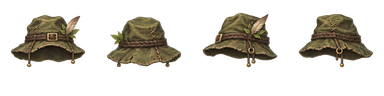
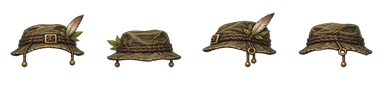
art(e08): integrate Codex redraws of the Elementalist wreath and Hunter hat
New revisions of class_set_elementalist_head and class_set_hunter_head
(same ids) packaged from the Codex sources (S/N/E/W, shared scale,
alpha bleed); head fit table regenerated with tuned per-piece params;
provenance recorded with the prompt unrecorded per P5 policy.

diff --git a/tools/prepare_e08_equipment_redesign.py b/tools/prepare_e08_equipment_redesign.py
@@ -1,6 +1,6 @@
 from PIL import Image, ImageDraw
 from pathlib import Path
-import json, hashlib
+import json, hashlib, sys
 P=Path('assets/art/e08_equipment_redesign')
 rows={
 'heads_basic_source_v1.png':[None,'class_set_archer_head',None,'class_set_defender_head'],
@@ -26,6 +26,51 @@ def fit(im, size):
     l,t,r,b=box; box=(max(0,l-3),max(0,t-3),min(im.width,r+3),min(im.height,b+3))
     im=im.crop(box); im.thumbnail(size,Image.Resampling.LANCZOS)
     return im
+# --- P7-C8: Codex redraws of two head pieces (post-closure revision, same ids/paths) -------------------
+# python tools/prepare_e08_equipment_redesign.py p7_head_art
+# Sources: 2172x724 transparent RGBA, four views side by side in the same order as the 384x96 sheets
+# (S,N,E,W; the E/W mapping was checked against the previous sheets' gem/buckle side). Each view is cropped by its
+# alpha bbox (alpha>=32 +3 px margin), ALL views of one piece share one scale (so the 4 views keep their relative
+# size; the widest view fills 76 px = 19 logical px), the result is placed like the old pipeline (x centred,
+# bottom at y=68 of the 96x96 cell), and RGB under alpha 0 is alpha-bleeded (nearest opaque colour, 4 px).
+P7_STAGING = P/'p7_head_fit_staging'
+P7_PIECES = {'class_set_elementalist_head': 'class_set_elementalist_head_source_v1.png',
+             'class_set_hunter_head': 'class_set_hunter_head_source_v1.png'}
+P7_OUT = Path('assets/art/equipment/headgear')
+P7_MAX_W = 76
+def alpha_bleed(im, radius=4):
+    import numpy as np
+    a = np.array(im); rgb = a[:, :, :3].copy(); alpha = a[:, :, 3]
+    known = alpha > 0
+    for _ in range(radius):
+        newrgb = rgb.copy(); newknown = known.copy()
+        for dy, dx in ((-1,0),(1,0),(0,-1),(0,1),(-1,-1),(-1,1),(1,-1),(1,1)):
+            sh_known = np.roll(known, (dy, dx), (0, 1)); sh_rgb = np.roll(rgb, (dy, dx), (0, 1))
+            take = ~newknown & sh_known
+            newrgb[take] = sh_rgb[take]; newknown |= take
+        rgb, known = newrgb, newknown
+    out = np.zeros_like(a); out[:, :, :3] = np.where(known[:, :, None], rgb, 0); out[:, :, 3] = alpha
+    return Image.fromarray(out, 'RGBA')
+def p7_pack(piece):
+    src = Image.open(P7_STAGING/P7_PIECES[piece]).convert('RGBA')
+    vw = src.width // 4
+    crops = []
+    for v in range(4):
+        view = alpha_bleed(src.crop((v*vw, 0, (v+1)*vw, src.height)))
+        box = visible_bbox(view)
+        l, t, r, b = box; box = (max(0, l-3), max(0, t-3), min(view.width, r+3), min(view.height, b+3))
+        crops.append(view.crop(box))
+    scale = P7_MAX_W / max(c.width for c in crops)
+    atlas = Image.new('RGBA', (384, 96)); boxes = []
+    for v, c in enumerate(crops):
+        o = c.resize((max(1, round(c.width*scale)), max(1, round(c.height*scale))), Image.Resampling.LANCZOS)
+        x = v*96 + (96-o.width)//2; y = 68 - o.height
+        atlas.alpha_composite(o, (x, y)); boxes.append([x-v*96, y, x-v*96+o.width, y+o.height])
+    atlas = alpha_bleed(atlas); atlas.save(P7_OUT/(piece+'.png'))
+    print(piece, 'scale %.4f' % scale, boxes)
+if len(sys.argv) > 1 and sys.argv[1] == 'p7_head_art':
+    for piece in P7_PIECES: p7_pack(piece)
+    sys.exit(0)
 ranges={
 'heads_basic_source_v1.png':([0,254,500,765,1024],[0,400,760,1110,1536]),
 'heads_sets_a_source_v1.png':([0,244,449,709,1024],[0,390,770,1150,1536]),

diff --git a/tools/prepare_e08_head_fit.py b/tools/prepare_e08_head_fit.py
@@ -27,8 +27,8 @@ PIECES = {
     'class_set_archer_head': {'mode': 'cover', 'width_k': 1.14, 'drop': -0.06, 'vk': 0.9},
     'class_set_berserker_head': {'mode': 'cover', 'width_k': 1.14, 'drop': -0.2, 'vk': 1.25},
     'class_set_defender_head': {'mode': 'cover', 'width_k': 1.1, 'drop': -0.1, 'vk': 0.72},
-    'class_set_elementalist_head': {'mode': 'band', 'width_k': 1.05, 'drop': -0.02, 'vk': 0.75},
-    'class_set_hunter_head': {'mode': 'cover', 'width_k': 1.08, 'drop': -0.09, 'vk': 0.85},
+    'class_set_elementalist_head': {'mode': 'band', 'width_k': 1.06, 'drop': 0.08, 'vk': 1.0},
+    'class_set_hunter_head': {'mode': 'cover', 'width_k': 1.14, 'drop': -0.12, 'vk': 0.9},
     'class_set_mage_head': {'mode': 'cover', 'width_k': 1.12, 'drop': -0.02, 'vk': 0.9},
     'class_set_mg_ar_head': {'mode': 'band', 'width_k': 1.08, 'drop': 0.2, 'vk': 1.0},
     'class_set_sentinel_head': {'mode': 'cover', 'width_k': 1.25, 'drop': -0.02, 'vk': 0.9},

diff --git a/docs/epics/e08_p7_head_fit_delivery.md b/docs/epics/e08_p7_head_fit_delivery.md
@@ -128,3 +128,67 @@ e08_pilot_test 350; e07_f7_presentation_test 27. Capturas finais:
 `tools/e08_p7_head_fit_probe.gd` (args `<pasta> <before|after> [160|260]`).
 Não repeti a suíte inteira (322 passos): somente os testes pedidos. Falta aceite
 humano; a verificação visual acima é minha, não auditoria independente.
+
+## Arte nova do Codex (C8)
+
+Pacote `C8_terra_head_art` (Terra). Codex redesenhou as duas peças do brief acima; esta
+seção registra a integração mecânica. Nenhum item, atributo, loot, save, caminho ou ID
+mudou: as duas peças são novas revisões dos mesmos arquivos. O catálogo de arte
+(`equipment_art_catalog.gd`) não fixa hashes de PNG; nenhum pino de teste precisou mudar.
+
+**Fontes** (somente leitura, RGBA transparente 2172×724, quatro vistas lado a lado) em
+`assets/art/e08_equipment_redesign/p7_head_fit_staging/`, com `provenance.json`
+(prompt `null`, status `generated_project_art_prompt_unrecorded`, sha256/tamanho):
+`class_set_elementalist_head_source_v1.png` (72ff3a4f…b033, 333511 B) e
+`class_set_hunter_head_source_v1.png` (1dca30d6…3010, 560787 B).
+
+**Mapeamento de vistas**: colunas S, N, E, W, a mesma ordem das folhas 384×96 anteriores.
+Conferido, não presumido: nas folhas antigas e nas fontes novas a vista 3 (E) tem a gema
+(grinalda) e a fivela (chapéu) no lado esquerdo da imagem, e a vista 4 (W) tem a gema no
+lado direito/argola central. Mesma convenção do pipeline existente (`views: S,N,E,W`).
+
+**Pipeline** (`python tools/prepare_e08_equipment_redesign.py p7_head_art`, estendido; as
+demais peças não são regeneradas): recorte por bbox alfa (alfa ≥ 32, margem 3 px) por
+vista; escala única por peça (vista mais larga = 76 px = 19 px lógicos; elementalista
+0,1954, caçadora 0,2021); LANCZOS; colocado como no pipeline antigo (centrado em x, base
+em y=68 da célula 96×96); alpha-bleed (RGB de pixels alfa 0 = cor opaca vizinha, 4 px)
+antes e depois da redução. Caixas por vista (x0,y0,x1,y1 em px 4×): elementalista
+[10,44,86,68] [10,46,85,68] [13,44,82,68] [12,44,83,68]; caçadora [10,14,85,68]
+[10,29,86,68] [10,12,85,68] [10,22,85,68]. Anel da grinalda ≈ 17–19 px lógicos de
+largura, 5–5,5 de altura (antes 15 de altura com fitas).
+
+**Hashes** (384×96): `class_set_elementalist_head.png` 08d2dc53…bd4f → a045332f173a6f29…e72c
+(16306 B); `class_set_hunter_head.png` 767c7e9b…933979b → a3b334d6ce0a4863…eafd (30556 B).
+`.import` não mudaram. Tabela de encaixe regenerada (`prepare_e08_head_fit.py write`;
+só as linhas das duas peças mudam).
+
+**Parâmetros de encaixe** (decididos olhando as capturas): elementalista
+`band, width_k 1,06, drop 0,08, vk 1,0` (antes 1,05/−0,02/0,75: a arte nova é uma linha
+fina, vk 0,75 a deixava quase invisível; drop leve a assenta na linha do cabelo);
+caçadora `cover, width_k 1,14, drop −0,12, vk 0,9` (antes 1,08/−0,09/0,85; chapéu menor
+pede mais largura relativa; testei drop −0,05, que deixava um arco de cabelo claro
+aparecendo acima da copa).
+
+**Capturas nativas** (janela 1280×720, grama, 10 classes × 4 direções × repouso/caminhada/
+ação/dano/cadáver, mais a página de cada peça em todas as 10 classes), em
+`.godot/verification/p7/`: antes (arte antiga, encaixe C6) `C8_terra_head_art_probe_c8_old160`;
+depois `..._c8_fin160` (zoom 160) e `..._c8_fin260` (leitura ampliada); iterações
+`..._c8_new160`, `..._c8_new260`, `..._c8_t1_160`. Arquivos `after_z160_elementalist.png`,
+`after_z160_hunter.png`, `after_z160_piece_class_set_{elementalist,hunter}_head.png`.
+
+**Avaliação visual (minha, não auditoria independente)**:
+* Elementalista: as fitas sumiram, nada cruza bochecha ou olho em nenhuma das quatro
+  direções nem no dano; o anel fino assenta na linha do cabelo, a gema aparece no lado
+  correto em E/W. Limitação: em escala 160 o anel é discreto (é o pedido: fino).
+* Caçadora: a copa é baixa, a aba mais estreita e levanta da testa; rosto e olhos ficam
+  visíveis em S/E/W, chapéu não engole a cabeça; acompanha o dano e o cadáver. Limitações:
+  a franja/cabelo claro do corpo continua à mostra sob a aba (é o corpo, não a peça);
+  na vista W o chapéu fica ligeiramente recuado sobre a nuca.
+* Página “todas as classes”: ambas as peças assentam nas 10 classes sem afundar no chão.
+
+**Testes** (wrapper `-Package C8_terra_head_art`, sync, import das PNGs, verify
+`c8_verify1`, 0 falhas): e08_equipment_art_test 60273; e08_directional_rig_compatibility_test
+41888; e08_directional_units_test 47494; e08_characters_test 1350;
+e06_appearance_integration_test 302; equipment_hand_alignment_test 4593; e08_pilot_test
+350; e07_f7_presentation_test 27. Nenhuma verificação alterada ou relaxada. Não repeti
+a suíte inteira. Falta aceite humano da aparência.
